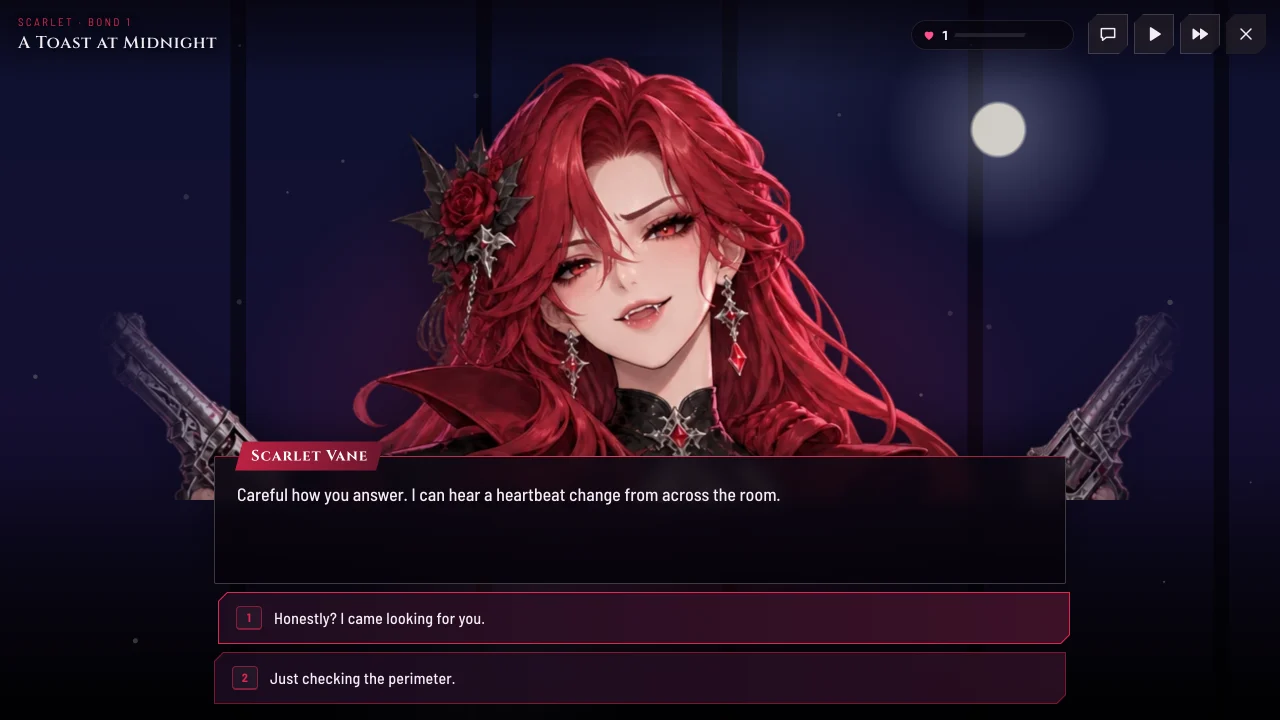
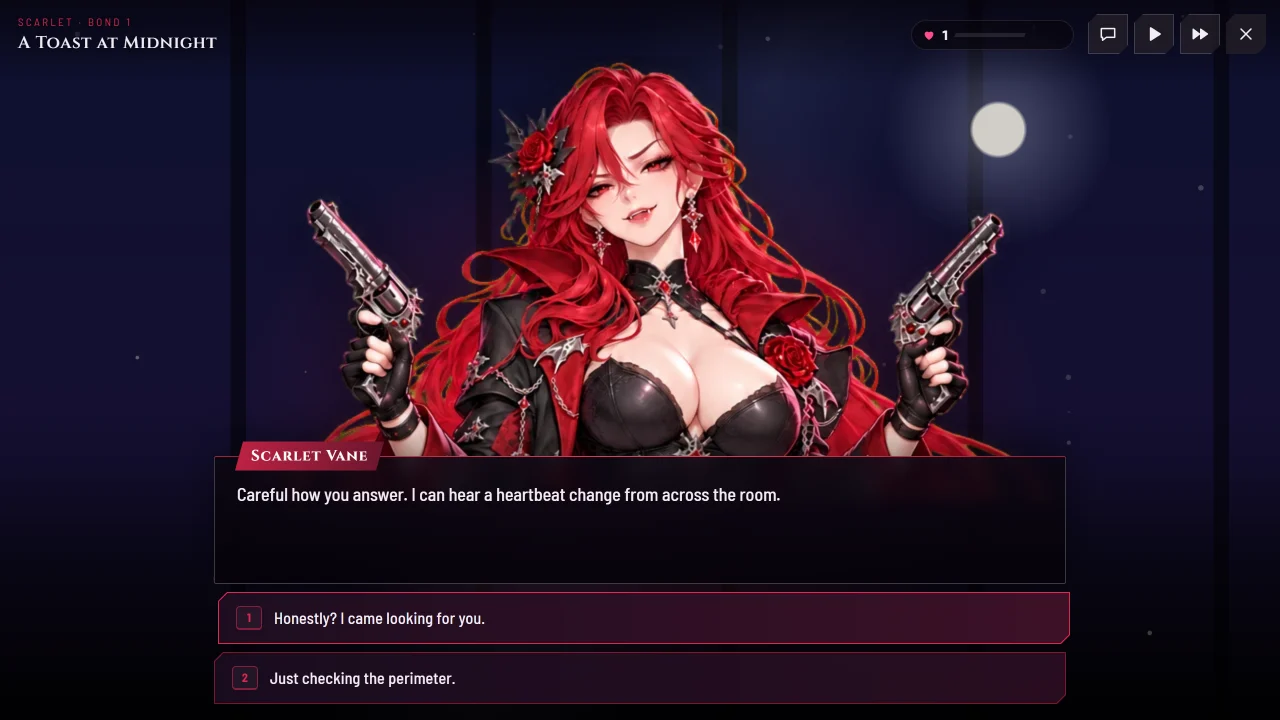
Selene full-body portrait and 9 moods; green-screen keying unmixes teal edges
Selene's portrait (third round, approved by the owner) and all nine moods are
full body, with the open neckline he asked for; she joins FULL_BODY, so all
four heroines are full body. README images regenerated.

npm run art: on a green screen, lilac hair blended with the screen turns teal;
that teal is now unmixed within 8 px of clear screen for heroines with no teal
of their own (off for Yuki's ice-blue).

diff --git a/scripts/art-import.ts b/scripts/art-import.ts
@@ -105,7 +105,6 @@ if (jobs.length) {
           // hair edges and translucent cloth (see-through instead of green) and leaves no
           // green or olive fringe. Rule for the art: nothing on her may be the screen colour.
           const BLUE = C === 2;
-          const R = BLUE ? 12 : 6;
           const SOLID = 4; // greenness at or below this is her own colour…
           const N = W * H;
           const gr = new Int16Array(N);
@@ -114,12 +113,18 @@ if (jobs.length) {
           // blended with it (red hair + green = olive) is unmixed too. Gold and orange
           // (red well above the screen channel) and anything farther inside stay as drawn.
           const nearScreen = (r: number) => {
+            // square of side 2r+1 around every clear-screen pixel, as two 1-D passes
+            const row = new Uint8Array(N);
             const near = new Uint8Array(N);
             for (let y = 0; y < H; y++)
               for (let x = 0; x < W; x++) {
                 if (gr[y * W + x] <= 40) continue;
-                for (let yy = Math.max(0, y - r); yy <= Math.min(H - 1, y + r); yy++)
-                  for (let xx = Math.max(0, x - r); xx <= Math.min(W - 1, x + r); xx++) near[yy * W + xx] = 1;
+                for (let xx = Math.max(0, x - r); xx <= Math.min(W - 1, x + r); xx++) row[y * W + xx] = 1;
+              }
+            for (let y = 0; y < H; y++)
+              for (let x = 0; x < W; x++) {
+                if (!row[y * W + x]) continue;
+                for (let yy = Math.max(0, y - r); yy <= Math.min(H - 1, y + r); yy++) near[yy * W + x] = 1;
               }
             return near;
           };
@@ -128,13 +133,32 @@ if (jobs.length) {
           // green but not bluer than red, and several pixels deep where a flame is
           // translucent. Within 8 px of clear screen that purple is unmixed as well.
           // Rule for the art: a heroine keyed on blue has no saturated purple at her edges.
-          const wide = BLUE ? nearScreen(8) : null;
+          // On a green screen the same happens to lilac and pink (Selene's hair): blended
+          // with green they turn teal, greener than red but not greener than blue. That
+          // is only safe to unmix for a heroine with no teal or ice-blue of her own, so it
+          // is switched on by her palette: under 1 % of her pixels deeper than 16 px inside
+          // are greener than red. (Yuki's ice-blue fails that test and is left alone.)
+          let tealFree = false;
+          if (!BLUE) {
+            const edge = nearScreen(16);
+            let inside = 0;
+            let teal = 0;
+            for (let n = 0; n < N; n++) {
+              if (edge[n] || gr[n] > SOLID) continue;
+              inside++;
+              if (px[n * 4 + 1] > px[n * 4] + 12) teal++;
+            }
+            tealFree = inside > 0 && teal / inside < 0.01;
+          }
+          const wide = BLUE || tealFree ? nearScreen(8) : null;
+          const R = wide ? 12 : 6;
           const solid = new Uint8Array(N);
           for (let n = 0; n < N; n++) {
             const i = n * 4;
             const olive = near[n] && px[i + C] >= px[i] - 15 && px[i + C] > px[i + O2] + 20;
-            const purple = wide !== null && wide[n] && px[i + 2] > px[i + 1] + 24 && px[i + 1] < 150;
-            solid[n] = gr[n] <= SOLID && !olive && !purple ? 1 : 0;
+            const purple = BLUE && wide !== null && wide[n] && px[i + 2] > px[i + 1] + 24 && px[i + 1] < 150;
+            const teal = tealFree && wide !== null && wide[n] && px[i + 1] > px[i] + 12;
+            solid[n] = gr[n] <= SOLID && !olive && !purple && !teal ? 1 : 0;
           }
           const out = new Uint8ClampedArray(px);
           for (let y = 0; y < H; y++) {

diff --git a/src/data/progression.ts b/src/data/progression.ts
@@ -47,7 +47,7 @@ export const GALLERY: GalleryItem[] = HEROINES.flatMap((h) =>
  * big views (home, chat, Bond, lightbox) show them whole. Remove the set once every
  * heroine has full-body art and make it the default framing in style.css.
  */
-export const FULL_BODY: ReadonlySet<string> = new Set(['scarlet', 'yuki', 'kaede']);
+export const FULL_BODY: ReadonlySet<string> = new Set(['scarlet', 'yuki', 'kaede', 'selene']);
 
 /** Portrait used in shop, chat and roster. Mood variants: portrait-<mood>.webp */
 export function portraitFile(heroine: string, mood?: string): string {

diff --git a/docs/STATUS.md b/docs/STATUS.md
@@ -8,7 +8,7 @@
 
 - Full match loop on _Moonlit Shrine_: 20 waves, win/lose, results screen with Bond XP and unlock notices.
 - 4 heroines (Scarlet, Yuki, Kaede, Selene), 3 upgrade paths × 3 tiers, BTD6 crosspath rule, targeting modes, sell 70%.
-- Scarlet, Yuki and Kaede have full-body art (portrait + all 9 moods); `npm run art` removes a green-screen background (or a blue one, used for Kaede's fire); agents can generate art via Codex CLI (ART_GUIDE §9).
+- All four heroines have full-body art (portrait + all 9 moods); `npm run art` removes a green-screen background (or a blue one, used for Kaede's fire); agents can generate art via Codex CLI (ART_GUIDE §9).
 - Enemies: 5 layered types, armored Iron Husk (immune to physical), Blight Colossus boss with HP bar.
 - Controls: speed 1×/2×/3×, auto-start, pause (auto-pauses when the tab is hidden), keyboard shortcuts.
 - Bond 1–10 (+2% attack rate/level), 8 chat episodes (2 per heroine, Bond 1 and 3), 20 gallery slots (Bond 2/4/6/8/10).
@@ -48,13 +48,12 @@
 
 ## Known issues / limitations
 
-- **MVP art scope:** remaining mood variants fall back to the main portrait; gallery slots 2–5 still show placeholders. The owner explicitly deferred the full 64-image set. Optional follow-up: B-01.
+- **Art scope:** every mood portrait exists now; gallery slots 2–5 still show placeholders, and the chibis and `gallery-1` pictures predate the full-body portraits (Selene's still show her old closed-neck gown). The owner explicitly deferred the full 64-image set. Optional follow-up: B-01.
 - Audio is synthesized placeholder quality (no recorded samples). 60 fps with 200 enemies on a mid phone is **not yet measured** (sounds are rate-limited to 24 voices, particles capped at 400).
 - Balance only validated by the naive bot (`npm run sim`: loses around wave 19–20). No human playtest data yet.
 - Upgrade tiers stop at 3 (BTD6 has 5). No camo/regrow enemies, no hero abilities.
 - Only 2 of the planned 5 chats per heroine are written; `speaker: 'you'` lines are supported but unused.
 - Battlefield texture is 80 px/tile: slightly soft at 3× zoom on high-DPI phones. Scenery props are decorative only (you can place a heroine on a tree or pond).
-- Portraits have a baked-in dark background (not true alpha); the home and chat screens feather the edges with CSS masks.
 - No 18+ age gate yet (required before any public promotion — see BACKLOG B-12).
 - Saves are per-browser only; clearing site data wipes progress.
 - Phaser bundle is ~1.4 MB (≈360 KB gzip); fine for now.
@@ -62,7 +61,16 @@
 
 ## Last session
 
-**2026-10-02 — Kaede full-body portrait and 9 moods (Claude, local Windows session)**
+**2026-10-02 — Selene full-body portrait and 9 moods; all four heroines are full body (Claude, local Windows session)**
+
+- Done: Selene's full-body `portrait.webp` and all 9 moods (Codex, green screen), and `'selene'` added to `FULL_BODY`. The owner asked for cleavage like the other heroines, so her gown has an open V neckline now (D-026 update). It took three rounds: he picked the hand-on-shoulder pose from round 1, rejected its long bow, found the compact bows of round 2 too small, and approved round 3 (that pose with the tall bow of another round-1 candidate, hands redrawn with clear lilac nails). He asked for the hands and nails to be checked zoomed in; both hands were, on every candidate and every mood.
+- Moods: silhouettes differ from the base by 0.37–0.40 % (0.28–0.31 % below the head); hands are unchanged in all nine. The image tool refused `tease` once (its filter); a retry with plainer wording passed. The owner has seen the base portrait but not the moods yet.
+- `npm run art`, green screen: lilac hair blended with green turned into a teal fringe. The keyer now unmixes "greener than red" pixels near the screen edge for heroines with no teal of their own (on for Selene and Scarlet, off for Yuki's ice-blue; Kaede's portrait re-keys byte-identical; Scarlet's and Yuki's shipped files were not re-keyed, see D-026). `nearScreen` is two 1-D passes now.
+- `npm run shots` re-run: the README images show the new art for all four (`battle.anim.webp` came out at 5.0 MB, up from 3.0 MB).
+- Checked in the built game at 390×844 and 1280×720: home, profile, chat. On the phone home screen her bow is past the right edge (her face, pose and gown are in view). `npm run smoke` passes.
+- Found, not fixed: T-09 in BACKLOG (the lobby can be scrolled sideways programmatically). Not done: T-08 (drop `FULL_BODY`), Selene's chibi and `gallery-1` (old gown).
+
+**Previously, 2026-10-02 — Kaede full-body portrait and 9 moods (Claude, local Windows session)**
 
 - Done: Kaede's full-body `portrait.webp` and all 9 moods, generated through Codex on a pure blue screen, and `'kaede'` added to `FULL_BODY`. The owner rejected the first candidate (her left arm had no upper arm or elbow; a stray digit and a purple patch inside the flame) and approved a second-round one: left hand on her hip with the elbow out, bare left shoulder, flame floating above an open palm. The moods were generated from that image with only the face changing; their silhouettes differ from the base by 0.45–0.56 % (0.24–0.29 % below the head). The owner has seen the base portrait but not the moods yet.
 - Checked in the built game at 390×844 and 1280×720: home, Messages, Bond, roster, profile, full art and a chat. On the phone home screen her flame hand sits behind the left rail tiles (her raised arm reaches further left than Scarlet's or Yuki's).
@@ -83,6 +91,6 @@
 
 ## Next up
 
-1. **Owner check of Kaede's 9 moods** (open a Kaede chat; any face he dislikes is one Codex image to redo, with `public/art/kaede/portrait.webp` as the reference, on blue). Then **Full-body art for Selene** (the last one; same Codex workflow, §9 of ART_GUIDE, green screen; add her id to `FULL_BODY`; then drop the set and make full body the default framing; re-run `npm run shots` so the README shows the new art). Then **Owner check:** Messages → a heroine → Gift / Diary / Talk. Then **owner playtest of the upgrade tree and the bigger heroines** (is 1.5 tiles right? `CHIBI_H` in `BattleScene.ts`; does the map panel sit on the right side of her?) and **install the PWA** on the phone (Add to Home Screen). Then **owner playtest of the skill effects** (upgrade each path to 3 with `?dev`; are signatures readable, too flashy at 3× speed?) and the longer music. Then **owner playtest of music + motion** (is the lofi too quiet/loud? any animation that feels slow or annoying? Tweak durations in the motion block of `style.css`). Then **owner playtest of the lobby + Frostveil Pass**, then the previous items. **Owner playtest (earlier):** read a Bond 5+ chat, watch combat at tier 3, listen to the new sounds. Tune in `Vfx.ts` / `sound.ts`.
+1. **Owner check of Kaede's and Selene's moods** (open a chat with each; any face he dislikes is one Codex image to redo with her `portrait.webp` as the reference, Kaede on blue, Selene on green). Then **T-08** (drop the `FULL_BODY` set, full body becomes the default framing). Then **Owner check:** Messages → a heroine → Gift / Diary / Talk. Then **owner playtest of the upgrade tree and the bigger heroines** (is 1.5 tiles right? `CHIBI_H` in `BattleScene.ts`; does the map panel sit on the right side of her?) and **install the PWA** on the phone (Add to Home Screen). Then **owner playtest of the skill effects** (upgrade each path to 3 with `?dev`; are signatures readable, too flashy at 3× speed?) and the longer music. Then **owner playtest of music + motion** (is the lofi too quiet/loud? any animation that feels slow or annoying? Tweak durations in the motion block of `style.css`). Then **owner playtest of the lobby + Frostveil Pass**, then the previous items. **Owner playtest (earlier):** read a Bond 5+ chat, watch combat at tier 3, listen to the new sounds. Tune in `Vfx.ts` / `sound.ts`.
 2. **Art:** more mood portraits now matter more (20 chats use all 9 moods), and scene backgrounds could become real art later (`.scene-*` in `style.css`).
 3. **B-03b perf check** (Vfx adds particles; cap is 700), then **B-04 barks**, **B-12 age gate**, **B-05 tiers 4–5**.

diff --git a/docs/DECISIONS.md b/docs/DECISIONS.md
@@ -107,3 +107,4 @@ The smoke test took ~11 min on the 2-core GitHub runner (software WebGL) and ran
 Owner wanted no cropped legs. Portraits are now generated full body (2:3), but the owner wants the upper-body focus on screen, so the game frames it: home and profile head to mid-thigh (the image is ~1.6× the visible height, anchored at the top, fading out at the bottom, so any screen shape cuts her with a fade rather than a hard edge), small cards and avatars closer with CSS `scale` (Safari-safe, unlike `object-view-box`); only the lightbox shows her whole. A `FULL_BODY` set marks converted heroines so old thighs-up art keeps its framing during the transition. Generators rarely return real transparency, so prompts ask for flat #00FF00 and `npm run art` keys it (no new image dependency; it runs in the smoke-test Chromium). Codex CLI was chosen over an API key or browser automation because it uses the owner's existing ChatGPT plan and is an official OpenAI client (ChatGPT web automation would break its terms).
 Update (same day): art is **network-first** in the service worker. Replaced art keeps its file name, so stale-while-revalidate showed the old waist-up Yuki inside the new full-body framing for a whole visit (owner's phone). Cache bumped to `siren-siege-v2` to clear old copies; the HTTP cache still makes repeat loads cheap.
 Update (same day, Kaede): heroines with fire or yellow are generated on pure blue instead, because green left a yellow-green fringe on the flame. Blue has its own trap: orange and red blended with blue turn purple, which is not "bluer than red", so the keyer kept it as her colour. On a blue screen the keyer now also unmixes saturated purple (blue above green by 24, green under 150) within 8 px of clear screen. The distance limit is deliberate: Kaede has real maroon and lilac shading inside her jacket that must stay. The prompt side matters as much: ask for a solid, opaque flame floating clear of her hand, since a translucent flame has the screen colour painted into it.
+Update (same day, Selene): the owner asked for Selene to show cleavage like the other three, so her full-body portrait has an open V neckline. This overrides the covered bodice of D-012 for portraits (still within the content ceiling: no nudity). Keying her on green had the mirror image of Kaede's problem: lilac hair blended with green turns teal, greener than red but not greener than blue, so it stayed as a teal fringe. The keyer now unmixes "greener than red" pixels within 8 px of clear screen, but only when the heroine has no teal of her own: under 1 % of her pixels deeper than 16 px inside are greener than red. Measured on the shipped portraits laid over green: Selene 0.05 % and Scarlet 0 % (rule on), Yuki 33 % (rule off, so her ice-blue keys as before). Kaede's blue-screen portrait re-keys to a byte-identical file. Scarlet's and Yuki's raw sources were not on this machine, so their files were not re-keyed; a future Scarlet import runs with the rule on.

diff --git a/docs/ART_GUIDE.md b/docs/ART_GUIDE.md
@@ -180,9 +180,12 @@ Character: Kaede Emberhorn, "the Oni Flame Dancer". A 29-year-old adult oni woma
 Character: Selene Moonwhisper, "the Moon Priestess". A 26-year-old adult woman.
 - Long lavender hair in a loose side braid, violet eyes, crescent-moon hair
   ornament, elegant curvy figure.
-- Outfit: backless white-and-lilac priestess gown with gold trim, sheer layered skirt
-  with a thigh slit, detached sleeves, moon-phase jewelry.
-- Weapon: an elegant bow made of glowing moonlight.
+- Outfit: white-and-lilac priestess gown with gold filigree trim and an open plunging
+  V neckline that shows her cleavage (halter straps, bare shoulders, a small crescent
+  pendant), sheer layered skirt with a thigh slit, detached sheer sleeves, moon-phase
+  jewelry, gold heeled sandals. Glossy lilac almond-shaped nails.
+- Weapon: a tall ornate moon bow, silver-white and gold with lilac limbs and a large
+  gold crescent above the grip (solid and opaque, no glow).
 - Signature color: lilac (#c79bff), with white and gold.
 - Personality/default expression: gentle, serene, with a quietly mischievous smile.
 ```
@@ -348,6 +351,6 @@ OpenAI's Codex CLI signs in with the owner's ChatGPT plan (no API key) and has a
    ```
    codex exec --skip-git-repo-check -s workspace-write -C <dir> -i ref.png -- "Use your image generation tool to create ONE image, then save it in this directory as smile.png. …" < /dev/null
    ```
-   Each image takes about 5–7 minutes (about 2 on the owner's PC); three in parallel works. Ask for the green background (§5.1 PORTRAIT RULES) and say the body must stay exactly in place for moods. For a heroine with fire or yellow (Kaede), ask for pure blue (#0000FF) instead, and for a solid, opaque flame that floats clear of her hand: a see-through flame lets the screen colour into the fire.
+   Each image takes about 5–7 minutes (about 2 on the owner's PC); three in parallel works. Ask for the green background (§5.1 PORTRAIT RULES) and say the body must stay exactly in place for moods. For a heroine with fire or yellow (Kaede), ask for pure blue (#0000FF) instead, and for a solid, opaque flame that floats clear of her hand: a see-through flame lets the screen colour into the fire. If the image tool refuses a mood, retry once with plainer wording for the expression (Selene's `tease` passed as "a playful, amused smile with one eyebrow slightly raised"); don't push past a second refusal.
 3. Show the owner the main portrait before making moods from it. Check moods line up (Scarlet's differed from the base by < 0.5 % of the silhouette).
 4. Copy the PNGs into `public/art/<id>/` with their final names and run `npm run art` (green is removed there), then `npm run smoke` and look at home, profile, chat and Bond screenshots.

diff --git a/docs/BACKLOG.md b/docs/BACKLOG.md
@@ -84,7 +84,7 @@ Alternate outfits unlocked at Bond 7; outfit picker in profile; art file naming 
 The MVP pass is complete: 19 assets (all four portraits/chibis/First Impression scenes plus seven expressions). See `docs/ART_ASSETS.md`. The owner explicitly requested the most important images only; completing all 64 is not a release gate.
 
 - When requested: add missing expressions and `gallery-2` … `gallery-5`, reusing each committed main portrait as the character reference.
-- Preserve Selene's covered ceremonial bodice and the established character designs.
+- Follow the approved full-body portraits (designs in `docs/ART_ASSETS.md`). Selene's chibi and `gallery-1` still show her old closed-neck gown and small bow, and Kaede's show her old pose: redo them from the new portraits when this item is picked up.
 - Accept: no body/framing jump between expressions, proper alpha, no face cropping in cards, gallery lightboxes and all three smoke viewports verified.
 
 ### B-16 · P2 · Main story chapters
@@ -101,6 +101,8 @@ The lore sets up a main plot (the Crimson Eclipse, Keeper Haruo, Selene's price,
 - T-01 · Split `ui/screens.ts` into one file per screen when it passes ~600 lines.
 - T-02 · Lazy-load Phaser after the home screen renders to speed up first paint.
 - T-03 · Replace per-frame `Graphics.clear()` redraw with pooled sprites once real sprites exist (only if profiling shows a need).
+- T-08 · Drop the `FULL_BODY` set now that all four heroines are full body: make the `.full` framing in `style.css` the default for portraits and remove the class from `art.ts` / `common.ts`. Check the generated SVG placeholders (a new heroine without art) still frame sensibly in cards, avatars, home and profile.
+- T-09 · `.screen.home` is `overflow: hidden` but wider than the viewport inside (scaled picker avatars, the hero image), so a programmatic scroll-into-view can shift the whole lobby sideways (seen with Playwright's `click()` at 390×844; a real tap does not). `overflow: clip` on the screen would rule it out; check Safari support and the smoke screenshots.
 - T-04 · Smarter balance bot (buys tier 3s, positions by role) so balance targets are closer to real players.
 
 ### B-17 · P3 · Heroine look changes with upgrades on the map

diff --git a/docs/ART_ASSETS.md b/docs/ART_ASSETS.md
@@ -19,9 +19,11 @@ The owner explicitly reduced the full 64-image brief to an MVP pass. Other expre
 
 ## Full-body sets (2026-10-02)
 
-Scarlet, Yuki and Kaede now have a full-body `portrait.webp` and all nine `portrait-<mood>.webp` (1024×1536 with alpha), replacing the thighs-up files above. They were generated through the Codex CLI (ART_GUIDE §9) and keyed by `npm run art`: Scarlet and Yuki on green, Kaede on blue because of her flame. Each mood was generated from the approved portrait with only the face changing. Selene still has the MVP files.
+All four heroines now have a full-body `portrait.webp` and all nine `portrait-<mood>.webp` (1024×1536 with alpha), replacing the thighs-up files above. They were generated through the Codex CLI (ART_GUIDE §9) and keyed by `npm run art`: Scarlet, Yuki and Selene on green, Kaede on blue because of her flame. Each mood was generated from the approved portrait with only the face changing. Chibis and `gallery-1` are still the MVP files.
 
 Kaede's approved design, for future art of her: left hand on her hip with the elbow out, the happi jacket off both shoulders, a flame floating above her open right palm, a layered black-and-red skirt with a braided rope belt, a red marking on her left thigh, the sake gourd hanging at her left hip.
+
+Selene's approved design, for future art of her: the owner asked for cleavage like the other heroines, so her gown now has an open plunging V neckline with halter straps (this replaces the covered high-neck bodice described below, which her chibi and `gallery-1` still show). Right hand raised with the fingertips on her bare shoulder, glossy lilac almond-shaped nails, left hand holding a tall moon bow upright at her side (large gold crescent above a dark grip, lower tip around her knee), thick side braid over her left shoulder, gold heeled sandals. The owner checks hands and nails closely: review both hands zoomed in before showing him a candidate.
 
 ## Visual reference and prompt set
 
